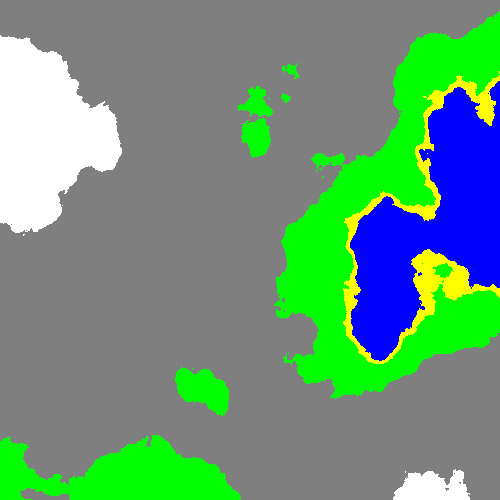
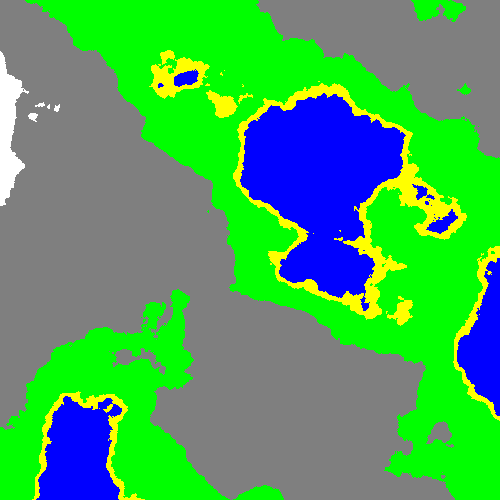
Lavet ting

diff --git a/TerrainGen.cs b/TerrainGen.cs
@@ -13,22 +13,25 @@ public partial class TerrainGen : MeshInstance3D
 	public bool update = false;
 
 	[Export]
-	public int xSize = 500;
+	public int StandardxSize = 500;
+	public int xSize;
 
 	[Export]
-	public int zSize = 500;
+	public int StandardzSize = 500;
+	public int zSize;
 
 	[Export]
 	public int GRID_SIZE = 400;
 
 	[Export]
-	public float MULTIPLIER = 400.0f;
+	public float MULTIPLIER = 300.0f;
 
 	[Export]
-	public float vertDistance = 1.0f;
+	public float standardvertDistance = 1.0f;
+	public float vertDistance;
 
 	[Export]
-	public float SURFACELEVEL = 100.0f;
+	public float waterLevel = 100.0f;
 
 	[Export]
 	public string seed = "schmungus";
@@ -43,12 +46,8 @@ public partial class TerrainGen : MeshInstance3D
 	public int vert;
 	public Vector2 uv;
 	public float kantAfstand;
-
-	public string MeshSeed = "MeshSeed"; 
-	public string TræNoiseSeed = "TræNoiseSeed"
-	public string xOffsetSeed = "xOffsetSeed";
-	public string zOffsetSeed = "zOffsetSeed";
-
+	public string TræNoiseSeed = "TræNoiseSeed";
+	public string OffsetSeed = "OffsetSeed";
 
 	// Træ-scene
 	PackedScene treeScene;
@@ -93,13 +92,20 @@ public partial class TerrainGen : MeshInstance3D
 	// Eulers tal til brug i CumulativeDistribution
 	public float e = 2.71828f;
 
+	// Lav resolution mindre
+	[Export]
+	public int resolution = 1;
+
 
 
 
 	// Called when the node enters the scene tree for the first time.
 	public override void _Ready()
 	{
-
+		// Manipuler detaljeringsgraden af terrain
+		xSize = StandardxSize/resolution;
+		zSize = StandardzSize/resolution;
+		vertDistance = standardvertDistance*resolution;
 	}
 
 	// Called every frame. 'delta' is the elapsed time since the previous frame.
@@ -110,7 +116,14 @@ public partial class TerrainGen : MeshInstance3D
 			FjernTræer();
 			perlinNoise.newSeed(seed);
 			Generate_Terrain();
+			
+			// Manipuler detaljeringsgraden af terrain
+			xSize = StandardxSize/resolution;
+			zSize = StandardzSize/resolution;
+			vertDistance = standardvertDistance*resolution;
+			
 			update = false;
+
 		}
 	}
 
@@ -122,9 +135,9 @@ public partial class TerrainGen : MeshInstance3D
 		Image image = Image.Create(xSize, zSize, false, Image.Format.Rgb8);
 
 		// Udregner højde for skift mellem biomer
-		SANDLEVEL = (MULTIPLIER-SURFACELEVEL)*0.03f + SURFACELEVEL;
-		GRASSLEVEL = (MULTIPLIER-SURFACELEVEL)*0.2f + SURFACELEVEL;
-		ROCKLEVEL = (MULTIPLIER-SURFACELEVEL)*0.6f + SURFACELEVEL;
+		SANDLEVEL = (MULTIPLIER-waterLevel)*0.03f + waterLevel;
+		GRASSLEVEL = (MULTIPLIER-waterLevel)*0.2f + waterLevel;
+		ROCKLEVEL = (MULTIPLIER-waterLevel)*0.6f + waterLevel;
 
 		// Laver Arraymesh og Surfacetool til generering af mesh
 		ArrayMesh a_mesh = new ArrayMesh();
@@ -143,21 +156,23 @@ public partial class TerrainGen : MeshInstance3D
 			// For hver punkt xSize+1
 			for(int x = 0; x < xSize+1; x++)
 			{
+				// Sætter seed
+				perlinNoise.newSeed(seed);
 
 				// Bestemmer y-værdi til vertex (højde) ud fra Noise (16 oktaver for masser af detaljer)
-				y = NoiseMAGIC(x,z, 16) * MULTIPLIER;
+				y = NoiseMAGIC(x*vertDistance,z*vertDistance, 16) * MULTIPLIER;
 				
 				// BESTEMMER BIOME
-				if (y <= SURFACELEVEL)
+				if (y <= waterLevel)
 				{	
 					// FLOOR SURFACE VALUE
-					y = SURFACELEVEL;
+					y = waterLevel;
 
 					// VERTEX IS WATER - SET COLOR TO BLUE
 					image.SetPixel(x, z, new Color(0.0f, 0.0f, 1.0f, 1.0f));
 				}
 
-				if (y <= SANDLEVEL && y > SURFACELEVEL){image.SetPixel(x, z, new Color(1.0f, 1.0f, 0.0f, 1.0f));} // VERTEX IS SAND - SET COLOR TO YELLOW
+				if (y <= SANDLEVEL && y > waterLevel){image.SetPixel(x, z, new Color(1.0f, 1.0f, 0.0f, 1.0f));} // VERTEX IS SAND - SET COLOR TO YELLOW
 
 				if (y <= ROCKLEVEL && y > GRASSLEVEL){image.SetPixel(x, z, new Color(0.5f, 0.5f, 0.5f, 1.0f));} // VERTEX IS ROCK - SET COLOR TO GREY
 
@@ -176,9 +191,12 @@ public partial class TerrainGen : MeshInstance3D
 					
 					// Load node der skal holde træer
 					træNode = GetParent().GetNode<Node3D>("TRÆER");
+
+					// Sætter seed for træ-noise
+					perlinNoise.newSeed(TræNoiseSeed);
 					
 					// Bestemmer værdi for træ-noise (2 oktaver for at få mere simpel/udlignet støj)
-					træNoise = NoiseMAGIC(x,z, 2);
+					træNoise = NoiseMAGIC(x*vertDistance,z*vertDistance, 2);
 					
 					// Generer tilfældigt tal mellem 0 og 1 og anvend negativ aftagende eksponentialfunktion  - manipulerer densitet af "skove"
 					float random = CumulativeDistribution((float)new Random().NextDouble(), distributionFaktor);
@@ -252,12 +270,19 @@ public partial class TerrainGen : MeshInstance3D
 					// [----------- TRÆER GENERERES -----------]	
 					if(genererTræ)
 					{
+						// Sætter seed for x og z-offset
+						perlinNoise.newSeed(OffsetSeed);
+
 						// Bestemmer random x og z-akse offsets for træ
-						xOffset = (float)new Random().NextDouble()*maxTræOffset;
-						zOffset = (float)new Random().NextDouble()*maxTræOffset;
+						xOffset = NoiseMAGIC(x*vertDistance,z*vertDistance, 8)*maxTræOffset;
+						zOffset = NoiseMAGIC(x*2*vertDistance,z*2*vertDistance, 8)*maxTræOffset;
+
+
+						// Sætter seed til MeshSeed
+						perlinNoise.newSeed(seed);
 
 						// Får ny y-værdi for træ fra samme Noise funktion, men med offset
-						float y2 = NoiseMAGIC(x+xOffset,z+zOffset, 16) * MULTIPLIER;
+						float y2 = NoiseMAGIC((x+xOffset)*vertDistance,(z+zOffset)*vertDistance, 16) * MULTIPLIER;
 
 
 						// [----------- Placerer Træ -----------]	
